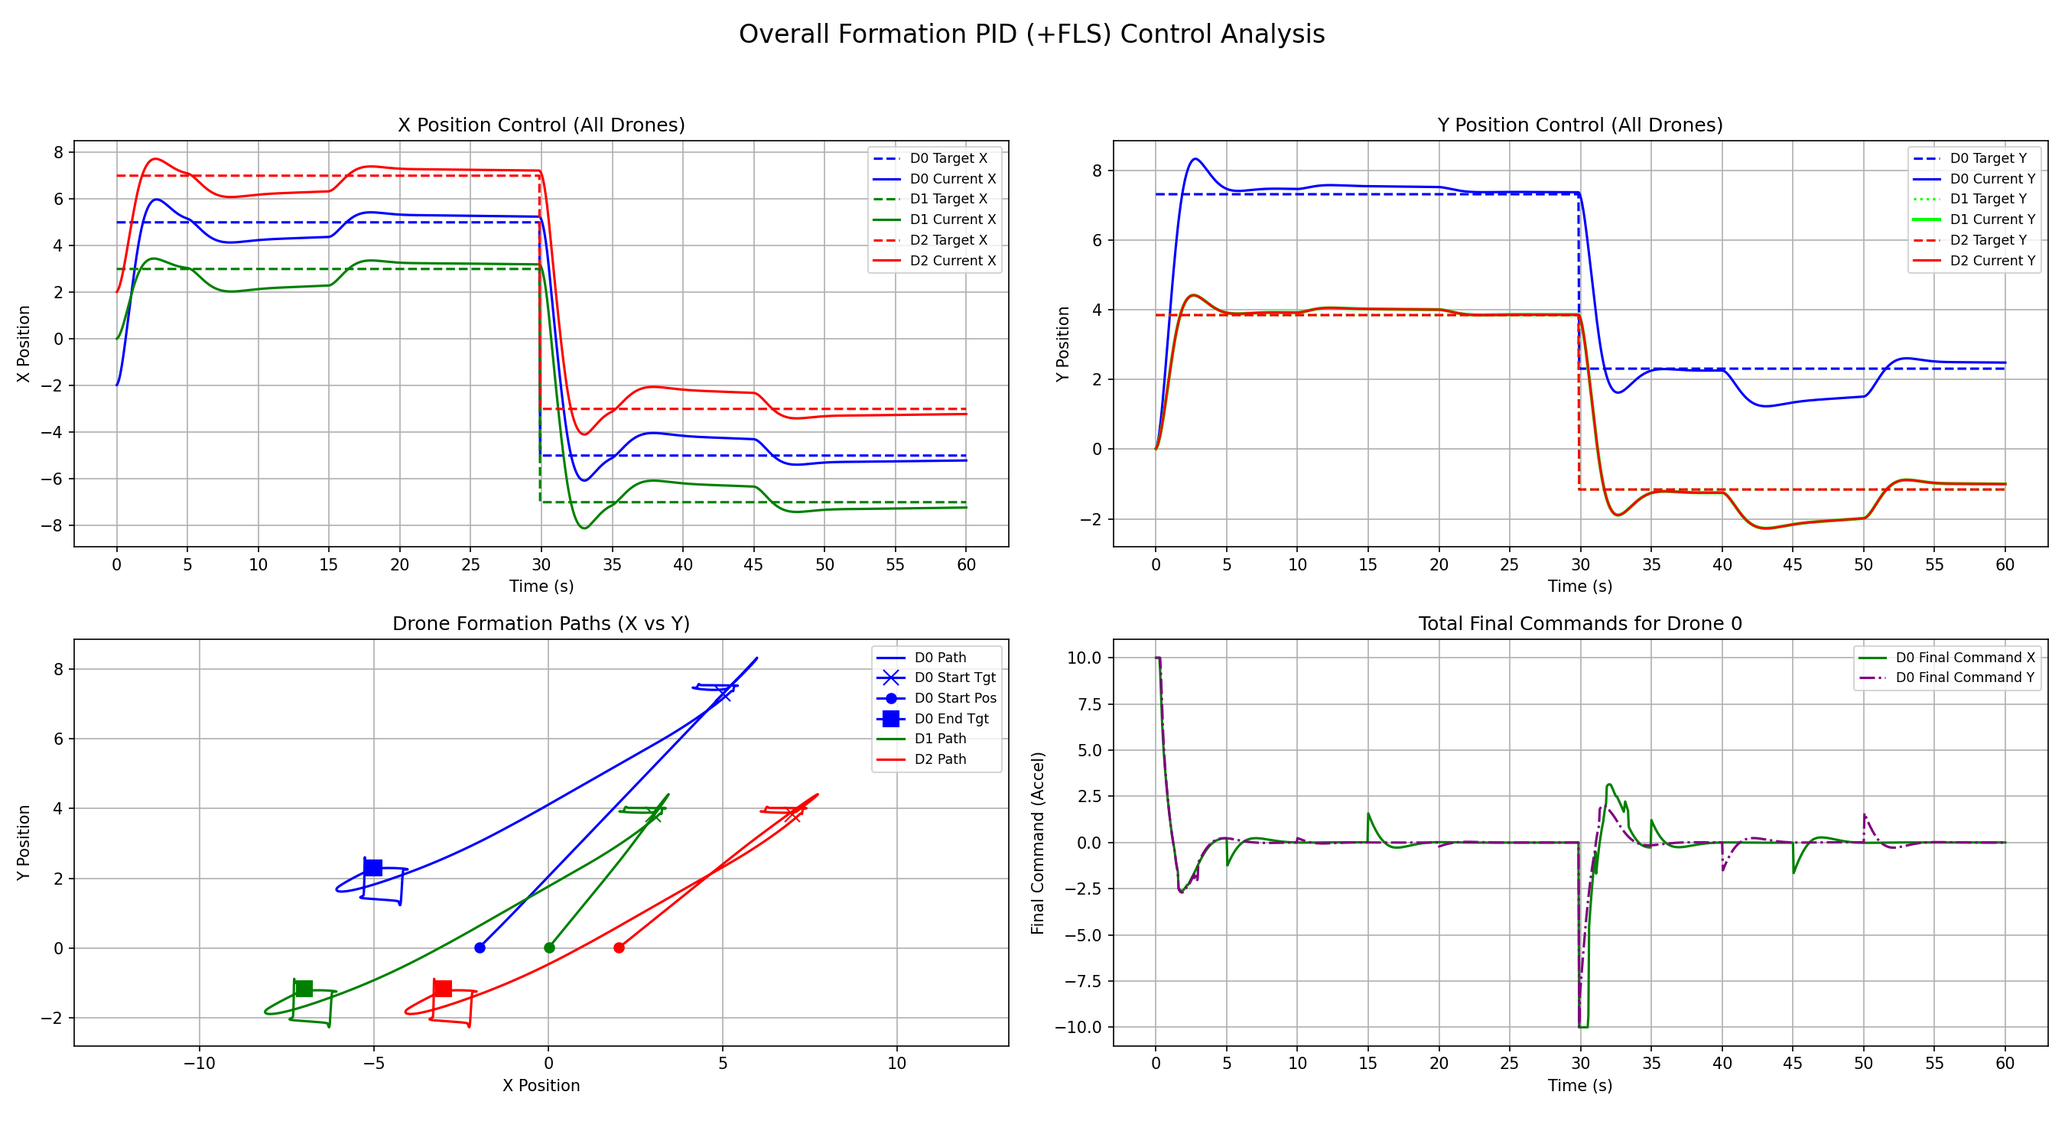
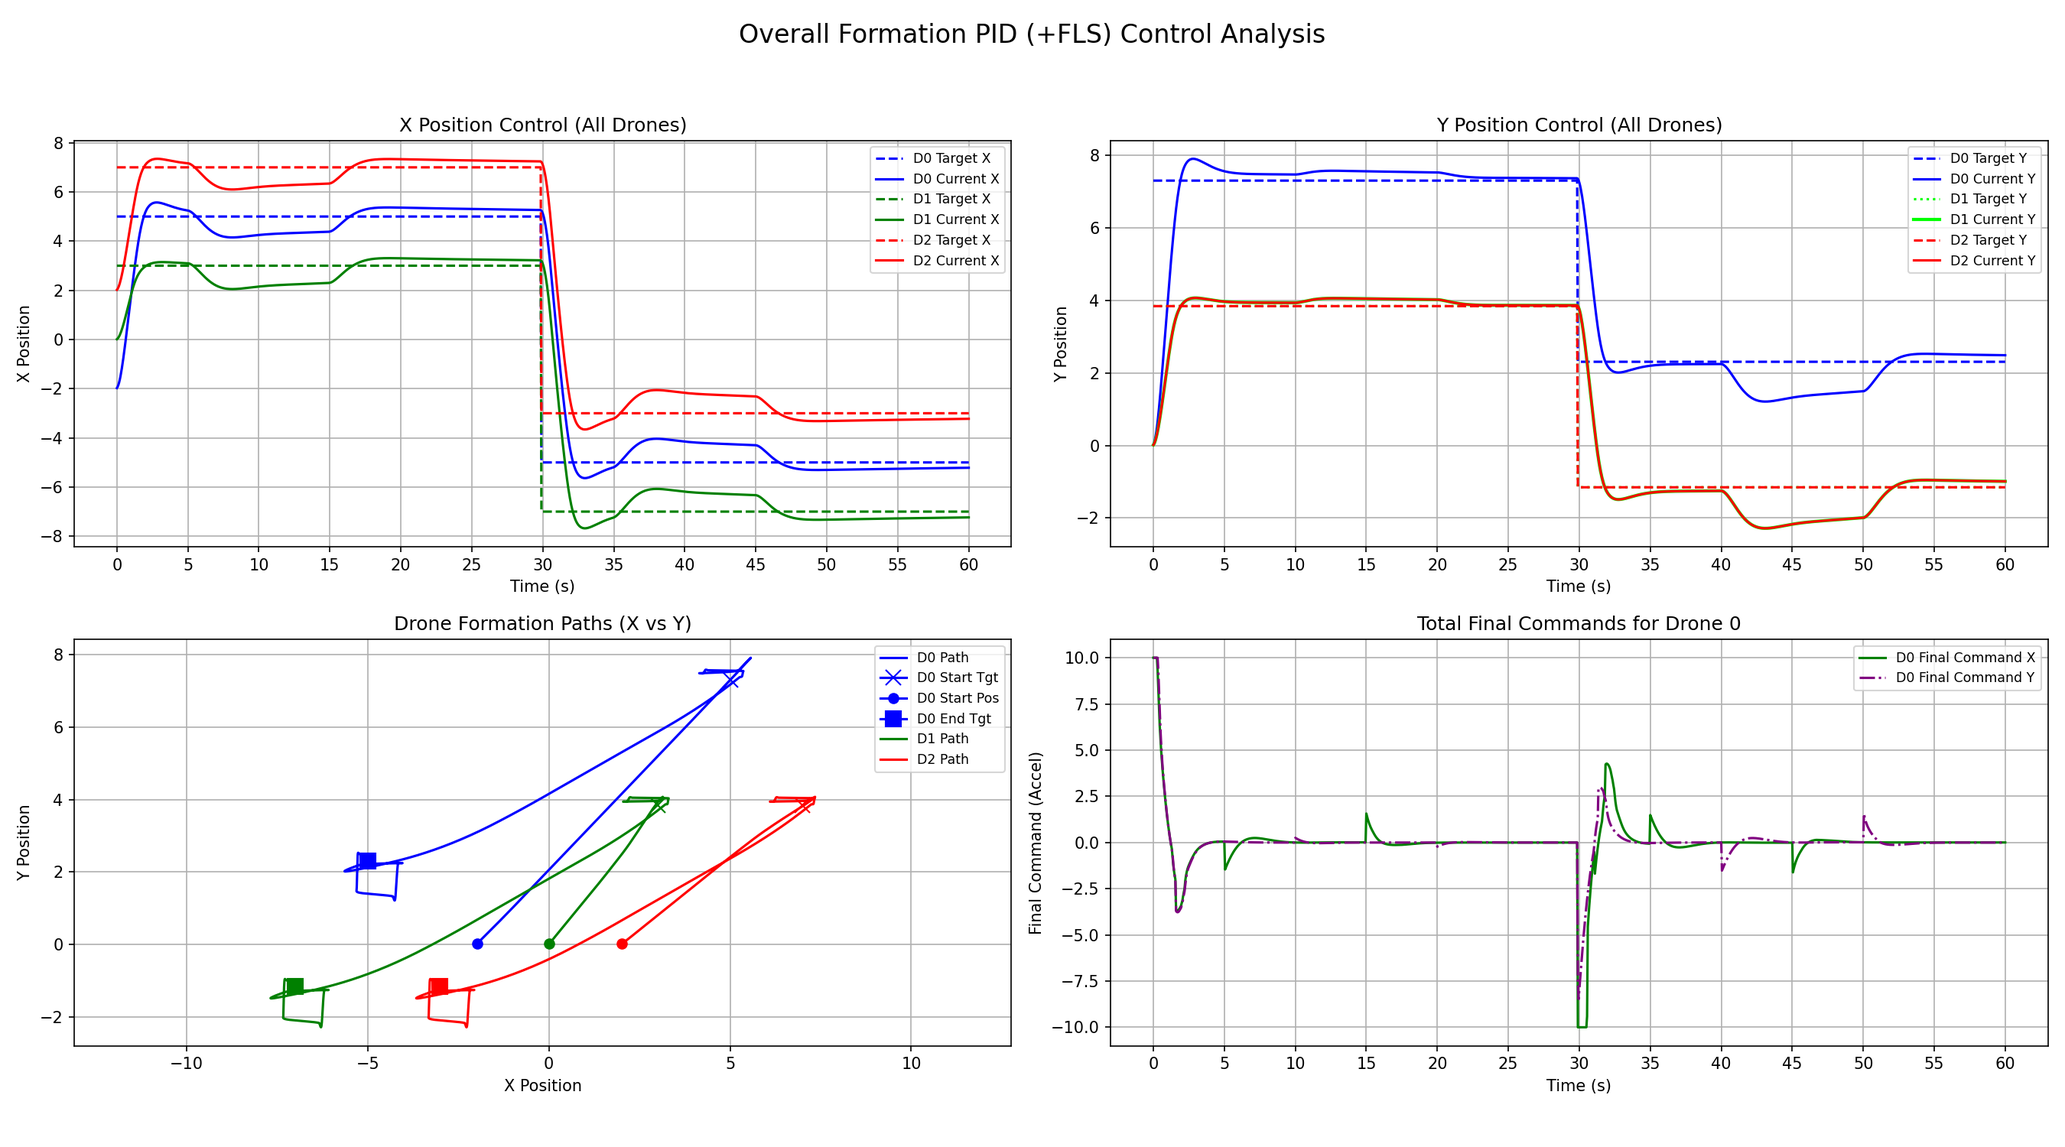
26052025

diff --git a/agent_control_pkg/src/fuzzy_test_main.cpp b/agent_control_pkg/src/fuzzy_test_main.cpp
@@ -55,35 +55,53 @@ int main() {
     fls.addFuzzySetToVariable("dError","DZ",FOU{-1.0,  0.0,  1.0,   -1.5,  0.0,  1.5});
     fls.addFuzzySetToVariable("dError","DP",FOU{ 0.0,  3.0,  5.0,   -1.0,  3.0,  6.0});
     // Wind sets
-    fls.addFuzzySetToVariable("wind","SNW",FOU{-10.0, -8.0, -5.0,  -11.0, -8.5, -4.5});
-    fls.addFuzzySetToVariable("wind","WNW",FOU{ -7.0, -4.0, -1.0,   -8.0, -4.5,  0.0});
-    fls.addFuzzySetToVariable("wind","NWN",FOU{ -1.0,  0.0,  1.0,   -1.5,  0.0,  1.5});
-    fls.addFuzzySetToVariable("wind","WPW",FOU{  1.0,  4.0,  7.0,    0.0,  4.5,  8.0});
-    fls.addFuzzySetToVariable("wind","SPW",FOU{  6.0,  8.0, 10.0,    5.5,  8.5, 11.0});
+    fls.addFuzzySetToVariable("wind","SNW",FOU{-10.0, -8.0, -5.0,  -11.0, -8.5, -4.5}); // Strong Negative Wind
+    fls.addFuzzySetToVariable("wind","WNW",FOU{ -7.0, -4.0, -1.0,   -8.0, -4.5,  0.0}); // Weak Negative Wind
+    fls.addFuzzySetToVariable("wind","NWN",FOU{ -1.0,  0.0,  1.0,   -1.5,  0.0,  1.5}); // No Wind
+    fls.addFuzzySetToVariable("wind","WPW",FOU{  1.0,  4.0,  7.0,    0.0,  4.5,  8.0}); // Weak Positive Wind
+    fls.addFuzzySetToVariable("wind","SPW",FOU{  6.0,  8.0, 10.0,    5.5,  8.5, 11.0}); // Strong Positive Wind
     // Correction sets
-    fls.addFuzzySetToVariable("correction","LNC",FOU{-5.0, -4.0, -2.5,  -5.5, -4.5, -2.0});
-    fls.addFuzzySetToVariable("correction","SNC",FOU{-3.0, -1.5,  0.0,  -3.5, -1.5,  0.5});
-    fls.addFuzzySetToVariable("correction","NC", FOU{-0.5,  0.0,  0.5,  -1.0,  0.0,  1.0});
-    fls.addFuzzySetToVariable("correction","SPC",FOU{ 0.0,  1.5,  3.0,  -0.5,  1.5,  3.5});
-    fls.addFuzzySetToVariable("correction","LPC",FOU{ 2.5,  4.0,  5.0,   2.0,  4.5,  5.5});
-    fls.addFuzzySetToVariable("correction","XLPC",FOU{ 4.5,  6.0,  7.5,   4.0,  6.5,  8.5});
-    fls.addFuzzySetToVariable("correction","XLNC",FOU{-7.5, -6.0, -4.5,  -8.5, -6.5, -4.0});
+    fls.addFuzzySetToVariable("correction","XLNC",FOU{-7.5, -6.0, -4.5,  -8.5, -6.5, -4.0}); // Extra Large Negative
+    fls.addFuzzySetToVariable("correction","LNC", FOU{-5.0, -4.0, -2.5,  -5.5, -4.5, -2.0}); // Large Negative
+    fls.addFuzzySetToVariable("correction","SNC", FOU{-3.0, -1.5,  0.0,  -3.5, -1.5,  0.5}); // Small Negative
+    fls.addFuzzySetToVariable("correction","NC",  FOU{-0.5,  0.0,  0.5,  -1.0,  0.0,  1.0}); // No Change / Zero
+    fls.addFuzzySetToVariable("correction","SPC", FOU{ 0.0,  1.5,  3.0,  -0.5,  1.5,  3.5}); // Small Positive
+    fls.addFuzzySetToVariable("correction","LPC", FOU{ 2.5,  4.0,  5.0,   2.0,  4.5,  5.5}); // Large Positive
+    fls.addFuzzySetToVariable("correction","XLPC",FOU{ 4.5,  6.0,  7.5,   4.0,  6.5,  8.5}); // Extra Large Positive
 
-    // --- Define FLS Rules (Your 21 rules) ---
+
+    // --- Define FLS Rules (Your 21 rules, with modifications for wind) ---
     std::cout << "\n--- Defining FLS Rules ---" << std::endl;
     auto R = [&](const std::string& e, const std::string& de, const std::string& w, const std::string& out){
         fls.addRule({{{"error",e},{"dError",de},{"wind",w}}, {"correction",out}});
     };
-    // No wind (NWN)
-    R("PB","DZ","NWN","LPC"); R("PS","DZ","NWN","SPC"); R("ZE","DZ","NWN","NC"); R("NS","DZ","NWN","SNC"); R("NB","DZ","NWN","LNC");
-    R("PB","DN","NWN","LPC"); R("PS","DN","NWN","SPC"); R("ZE","DN","NWN","NC"); R("NS","DN","NWN","NC");  R("NB","DN","NWN","SNC");
-    R("PB","DP","NWN","NC");  R("PS","DP","NWN","SNC"); R("ZE","DP","NWN","NC"); R("NS","DP","NWN","SNC"); R("NB","DP","NWN","LNC");
+    // No wind (NWN) - Damping rules
+    R("PB","DZ","NWN","LPC"); R("PS","DZ","NWN","SPC"); R("ZE","DZ","NWN","NC");  R("NS","DZ","NWN","SNC"); R("NB","DZ","NWN","LNC");
+    R("PB","DN","NWN","LPC"); R("PS","DN","NWN","SPC"); R("ZE","DN","NWN","SNC"); // Changed from NC to SNC for ZE,DN
+    R("NS","DN","NWN","NC");  R("NB","DN","NWN","SNC");
+    R("PB","DP","NWN","NC");  R("PS","DP","NWN","SNC"); R("ZE","DP","NWN","SPC"); // Changed from NC to SPC for ZE,DP
+    R("NS","DP","NWN","SNC"); R("NB","DP","NWN","LNC");
+
     // Wind scenarios
-    R("ZE","DZ","SPW","SPC"); R("ZE","DZ","SNW","SNC"); R("PB","DZ","SPW","XLPC");R("NB","DZ","SNW","XLNC"); R("ZE","DZ","WPW","SPC");
-    R("ZE","DZ","WNW","SNC");
-    std::cout << "Total rules defined: " << fls.getRuleCount() << std::endl; // Make sure getRuleCount() is public in .hpp
+    // When error is ZE (Zero Error) and dError is DZ (Zero Change in Error)
+    // Stronger direct counteraction for wind:
+    R("ZE","DZ","SPW","LNC");  // Strong Positive Wind -> Large Negative Correction
+    R("ZE","DZ","SNW","LPC");  // Strong Negative Wind -> Large Positive Correction
+    // Weaker direct counteraction for weak wind (could also be SNC/SPC if LNC/LPC is too much for weak wind)
+    R("ZE","DZ","WPW","SNC");  // Weak Positive Wind -> Small Negative Correction
+    R("ZE","DZ","WNW","SPC");  // Weak Negative Wind -> Small Positive Correction
+
+    // Rules when error is present WITH wind (these might need more thought/tuning)
+    // Example: If drone is already far behind target (PB) and wind pushes it further (SPW),
+    // then an even stronger positive command might be needed than just XLPC.
+    // Or if wind helps, maybe less than XLPC. For now, keeping your original:
+    R("PB","DZ","SPW","XLPC"); // Error PB, Strong Positive Wind -> XLPC
+    R("NB","DZ","SNW","XLNC"); // Error NB, Strong Negative Wind -> XLNC
+
+    std::cout << "Total rules defined: " << fls.getRuleCount() << std::endl;
 
     // --- 1. Generate Data for Plotting Membership Functions ---
+    // ... (This part of your code remains the same) ...
     std::ofstream mf_data_file("fls_mf_data.csv");
     if (!mf_data_file.is_open()) {
         std::cerr << "Error: Could not open fls_mf_data.csv" << std::endl;
@@ -97,15 +115,8 @@ int main() {
 
         std::cout << "\n--- Generating Membership Function Data for CSV ---" << std::endl;
         for (const std::string& var_name : input_vars_for_mf_plot) {
-            // Assuming fls.fuzzy_sets_ is accessible or you have a getter for it
-            // For this test, let's assume we call fuzzifyInputs for discrete points
-            // This requires fuzzifyInputs to be public in GT2FuzzyLogicSystem.hpp
-            if (fls.getFuzzySets().count(var_name)) { // Assuming getFuzzySets() returns fuzzy_sets_
+            if (fls.getFuzzySets().count(var_name)) {
                 for (double val = var_plot_ranges[var_name].first; val <= var_plot_ranges[var_name].second; val += mf_plot_step) {
-                    // We need to get membership for 'val' for each set in 'var_name'
-                    // The easiest way is to call the getTriangularMembership directly if we know the FOU
-                    // Or call a modified fuzzifyInputs that takes a single var and value.
-                    // For now, let's iterate through defined sets for the var and call getTriangularMembership
                     const auto& sets_for_var = fls.getFuzzySets().at(var_name);
                     for (const auto& set_entry : sets_for_var) {
                         const std::string& set_name = set_entry.first;
@@ -125,6 +136,7 @@ int main() {
     }
 
     // --- 2. Generate Data for Control Surface Plot (e.g., error vs wind -> correction, dError fixed) ---
+    // ... (This part of your code remains the same) ...
     std::ofstream surface_data_file("fls_surface_data.csv");
     if (!surface_data_file.is_open()) {
         std::cerr << "Error: Could not open fls_surface_data.csv" << std::endl;
@@ -146,26 +158,19 @@ int main() {
     }
 
     // --- Original Specific Test Scenarios (for console verification) ---
+    // ... (This part of your code remains the same) ...
     std::cout << "\n--- Running Original Specific Test Scenarios ---" << std::endl;
     struct Scenario { double e, de, w; const char* name; };
     std::vector<Scenario> tests = {
-        {0.1,   0.0,   0.05, "Test1: Error ZE, dError DZ, Wind NWN (Rule 3 -> NC)"},
-        {0.1,   0.0,   7.0,  "Test2: Error ZE, dError DZ, Wind SPW (Rule 16 -> depends on consequent)"},
-        {7.0,   0.0,   7.0,  "Test3: Error PB, dError DZ, Wind SPW (Rule 18 -> XLPC)"},
-        {-7.0,  0.0,  -7.0,  "Test4: Error NB, dError DZ, Wind SNW (Rule 19 -> XLNC)"},
-        {2.5,   0.0,   0.0,  "Test5: Error PS, dError DZ, Wind NWN (Rule 2 -> SPC)"}
+        {0.1,   0.0,   0.05, "Test1: Error ZE, dError DZ, Wind NWN (Rule ZE,DZ,NWN -> NC)"}, // Updated expected rule
+        {0.1,   0.0,   7.0,  "Test2: Error ZE, dError DZ, Wind SPW (Rule ZE,DZ,SPW -> LNC)"}, // Updated expected rule
+        {7.0,   0.0,   7.0,  "Test3: Error PB, dError DZ, Wind SPW (Rule PB,DZ,SPW -> XLPC)"},
+        {-7.0,  0.0,  -7.0,  "Test4: Error NB, dError DZ, Wind SNW (Rule NB,DZ,SNW -> XLNC)"},
+        {2.5,   0.0,   0.0,  "Test5: Error PS, dError DZ, Wind NWN (Rule PS,DZ,NWN -> SPC)"}
     };
      for (const auto& s : tests) {
         std::cout << "\n--- Testing Scenario: " << s.name << " ---" << std::endl;
         std::cout << "Crisp Inputs: error=" << s.e << ", dError=" << s.de << ", wind=" << s.w << std::endl;
-
-        // If fuzzifyInputs is public and you want to print detailed fuzzification for these specific tests:
-        // auto all_fuzzified_inputs = fls.fuzzifyInputs(s.e, s.de, s.w);
-        // if (all_fuzzified_inputs.count("error")) { print_fuzzified_variable_results("error", s.e, all_fuzzified_inputs.at("error"));}
-        // ... and for dError, wind ...
-        // std::cout << "------------------------------------" << std::endl;
-
-        std::cout << "\nCalling full calculateOutput:" << std::endl;
         double u = fls.calculateOutput(s.e, s.de, s.w);
         std::cout << "  FLS Crisp Output = " << u << '\n';
     }

diff --git a/agent_control_pkg/src/pid_controller.cpp b/agent_control_pkg/src/pid_controller.cpp
@@ -1,5 +1,7 @@
+// agent_control_pkg/src/pid_controller.cpp
 #include "agent_control_pkg/pid_controller.hpp"
 #include <algorithm> // For std::clamp
+#include <iostream>  // For potential debugging
 
 namespace agent_control_pkg
 {
@@ -12,13 +14,20 @@ PIDController::PIDController(double kp, double ki, double kd, double output_min,
   output_max_(output_max),
   setpoint_(setpoint),
   integral_(0.0),
-  previous_error_(0.0),
+  previous_error_(0.0), // Still useful if other parts of your system might want raw error
   first_calculation_(true),
-  last_terms_{0.0, 0.0, 0.0, 0.0} // initialize terms
+  last_terms_{0.0, 0.0, 0.0, 0.0},
+  previous_measurement_(0.0) // Initialize previous_measurement_
 {
   if (output_min_ >= output_max_) {
-    // handle invalid limits
+    // Consider throwing an exception or logging an error for invalid limits
+    std::cerr << "PIDController Warning: Output min (" << output_min_ 
+              << ") is not less than output max (" << output_max_ << ")." << std::endl;
+    // Default to some safe limits or ensure this state is handled.
   }
+  // It might be better to initialize previous_measurement_ with the first 'current_value'
+  // but for simplicity, 0.0 is often okay if the system starts near there or first_calculation_ handles it.
+  // Or, you can pass an initial current_value to the constructor if known.
 }
 
 void PIDController::setTunings(double kp, double ki, double kd)
@@ -33,12 +42,19 @@ void PIDController::setOutputLimits(double min_val, double max_val)
   if (min_val < max_val) {
     output_min_ = min_val;
     output_max_ = max_val;
+  } else {
+     std::cerr << "PIDController Warning: Invalid output limits. Min (" << min_val 
+               << ") must be less than Max (" << max_val << ")." << std::endl;
   }
 }
 
 void PIDController::setSetpoint(double setpoint)
 {
   setpoint_ = setpoint;
+  // When setpoint changes, it does not affect the D term directly with derivative on measurement
+  // No need to reset integral usually, unless it's a very large step change and you want faster response
+  // for some specific strategies (e.g., reset integral on large setpoint changes if it causes windup issues
+  // despite clamping, but clamping the PID output usually handles integral windup sufficiently).
 }
 
 double PIDController::getKp() const { return kp_; }
@@ -49,39 +65,69 @@ double PIDController::getSetpoint() const { return setpoint_; }
 PIDController::PIDTerms PIDController::calculate_with_terms(double current_value, double dt)
 {
   if (dt <= 0.0) {
+    // Or return last_terms_ if you prefer no change on invalid dt
+    // std::cerr << "PIDController Warning: dt is zero or negative. Returning zero output." << std::endl;
     last_terms_ = {0.0, 0.0, 0.0, 0.0};
     return last_terms_;
   }
 
   double error = setpoint_ - current_value;
 
-  // Proportional
+  // Proportional Term
   double p_term = kp_ * error;
 
-  // Integral
+  // Integral Term (with anti-windup consideration implicitly by clamping total output later)
+  // More explicit anti-windup can be added here if output saturation is frequent and problematic
+  // e.g., by only accumulating integral if output is not saturated or error has same sign as output.
   integral_ += error * dt;
+  // Optional: Clamp integral term itself to prevent excessive windup
+  // double max_integral_contribution = (output_max_ - output_min_) / 2.0; // Heuristic
+  // integral_ = std::clamp(integral_, -max_integral_contribution / ki_if_ki_is_not_zero, max_integral_contribution / ki_if_ki_is_not_zero);
   double i_term = ki_ * integral_;
 
-  // Derivative
-  double derivative = 0.0;
+
+  // Derivative Term (on Measurement)
+  double derivative_input_change = 0.0;
   if (first_calculation_) {
-    derivative = 0.0;
+    // On the first call, there's no previous_measurement_ to calculate a derivative.
+    // So, derivative is zero. Also, initialize previous_measurement_.
+    derivative_input_change = 0.0;
     first_calculation_ = false;
   } else {
-    derivative = (error - previous_error_) / dt;
+    derivative_input_change = current_value - previous_measurement_;
   }
-  double d_term = kd_ * derivative;
+  previous_measurement_ = current_value; // Store current value for next iteration
 
+  // Derivative term is calculated as -Kd * (change_in_measurement / dt)
+  // or Kd * (change_in_error_if_setpoint_is_constant / dt)
+  // Since dError/dt = d(Setpoint - Measurement)/dt. If Setpoint is const, dError/dt = -dMeasurement/dt.
+  // So, Kd * dError/dt = Kd * (-dMeasurement/dt)
+  // The `derivative_input_change / dt` is dMeasurement/dt
+  double d_term = -kd_ * (derivative_input_change / dt);
+
+
+  // Store previous_error_ - still useful if your FLS or other logic needs the raw error derivative.
+  // If FLS dError is also meant to be based on measurement, that's a separate consideration.
+  // For now, this PID's D-term is on measurement.
   previous_error_ = error;
 
-  // Raw output
+
+  // Raw PID Output
   double output = p_term + i_term + d_term;
 
-  // Clamp output
-  output = std::clamp(output, output_min_, output_max_);
+  // Clamp Output to defined limits (Anti-windup for integral term)
+  double clamped_output = std::clamp(output, output_min_, output_max_);
 
-  // Store terms
-  last_terms_ = {p_term, i_term, d_term, output};
+  // Optional: Adjust integral based on clamping to further prevent windup
+  // If output was clamped, and error sign is such that integral would grow further into saturation, reset/reduce integral.
+  // This is more advanced anti-windup. For now, output clamping is the primary method.
+  // Example: if (output != clamped_output && std::signbit(error) == std::signbit(output - clamped_output)) {
+  //    integral_ -= (output - clamped_output) / ki_; // Back-calculate and remove excess integral
+  // }
+
+
+  // Store terms (using potentially unclamped P, I, D for analysis, but clamped total_output)
+  last_terms_ = {p_term, i_term, d_term, clamped_output};
   return last_terms_;
 }
 
@@ -99,7 +145,12 @@ void PIDController::reset()
 {
   integral_ = 0.0;
   previous_error_ = 0.0;
+  // previous_measurement_ should ideally be reset to the current system value if known,
+  // or rely on first_calculation_ to handle it.
+  // Setting to 0.0 might cause a small d-term blip on the first calculation after reset if system isn't at 0.
+  // A common approach is to not reset previous_measurement_ here, or set first_calculation_ to true.
   first_calculation_ = true;
+  // previous_measurement_ = 0.0; // Or get current value if possible at reset time
   last_terms_ = {0.0, 0.0, 0.0, 0.0};
 }
 

diff --git a/agent_control_pkg/src/agent_control_main.cpp b/agent_control_pkg/src/agent_control_main.cpp
@@ -95,19 +95,25 @@ void setup_fls_instance(agent_control_pkg::GT2FuzzyLogicSystem& fls) {
     auto R = [&](const std::string& e, const std::string& de, const std::string& w, const std::string& out){
         fls.addRule({{{"error",e},{"dError",de},{"wind",w}}, {"correction",out}});
     };
-    // No wind (NWN)
-    R("PB","DZ","NWN","LPC"); R("PS","DZ","NWN","SPC"); R("ZE","DZ","NWN","NC"); R("NS","DZ","NWN","SNC"); R("NB","DZ","NWN","LNC");
-    R("PB","DN","NWN","LPC"); R("PS","DN","NWN","SPC"); R("ZE","DN","NWN","NC"); R("NS","DN","NWN","NC");  R("NB","DN","NWN","SNC");
-    R("PB","DP","NWN","NC");  R("PS","DP","NWN","SNC"); R("ZE","DP","NWN","NC"); R("NS","DP","NWN","SNC"); R("NB","DP","NWN","LNC");
-    // Wind scenarios
-    // CRITICAL: Review these consequents. If positive wind pushes drone to +X, correction should be NEGATIVE.
-    R("ZE","DZ","SPW","SNC"); // Example: ZE, Strong Positive Wind -> Small Negative Correction
-    R("ZE","DZ","SNW","SPC"); // Example: ZE, Strong Negative Wind -> Small Positive Correction
-    R("PB","DZ","SPW","XLPC"); // Error PB, SPW. PID wants LPC. FLS adds more positive if wind opposes.
-    R("NB","DZ","SNW","XLNC"); // Error NB, SNW. PID wants LNC. FLS adds more negative if wind opposes.
-    R("ZE","DZ","WPW","SNC"); // Example: ZE, Weak Positive Wind -> Small Negative Correction
-    R("ZE","DZ","WNW","SPC"); // Example: ZE, Weak Negative Wind -> Small Positive Correction
-    // Add more rules based on your refined strategy for wind interaction with error/dError
+        // No wind (NWN) - Damping rules & basic error correction
+    R("PB","DZ","NWN","LPC"); R("PS","DZ","NWN","SPC"); R("ZE","DZ","NWN","NC");  R("NS","DZ","NWN","SNC"); R("NB","DZ","NWN","LNC");
+    R("PB","DN","NWN","LPC"); R("PS","DN","NWN","SPC"); R("ZE","DN","NWN","SNC"); // MODIFIED: Was NC, now SNC for damping
+    R("NS","DN","NWN","NC");  R("NB","DN","NWN","SNC");
+    R("PB","DP","NWN","NC");  R("PS","DP","NWN","SNC"); R("ZE","DP","NWN","SPC"); // MODIFIED: Was NC, now SPC for damping
+    R("NS","DP","NWN","SNC"); R("NB","DP","NWN","LNC");
+  // Wind scenarios
+    // When error is ZE (Zero Error) and dError is DZ (Zero Change in Error)
+    // MODIFIED: Stronger direct counteraction for wind
+    R("ZE","DZ","SPW","LNC");  // Strong Positive Wind -> Large Negative Correction (was SNC in your original)
+    R("ZE","DZ","SNW","LPC");  // Strong Negative Wind -> Large Positive Correction (was SPC in your original)
+    // MODIFIED: Weaker direct counteraction for weak wind (original was SNC/SPC, keeping those)
+    R("ZE","DZ","WPW","SNC");  // Weak Positive Wind -> Small Negative Correction
+    R("ZE","DZ","WNW","SPC");  // Weak Negative Wind -> Small Positive Correction
+
+    // Rules when error is present WITH wind (These were your original, keeping them for now,
+    // but they might need tuning based on how wind interacts with an existing error)
+    R("PB","DZ","SPW","XLPC");
+    R("NB","DZ","SNW","XLNC");
 }
 // *** END Added Helper Function ***
 

diff --git a/agent_control_pkg/include/agent_control_pkg/pid_controller.hpp b/agent_control_pkg/include/agent_control_pkg/pid_controller.hpp
@@ -57,6 +57,8 @@ private:
     double integral_;
     bool first_calculation_; // Should be bool
 
+    double previous_measurement_;
+
     // Last PID components
     PIDTerms last_terms_;
 };
